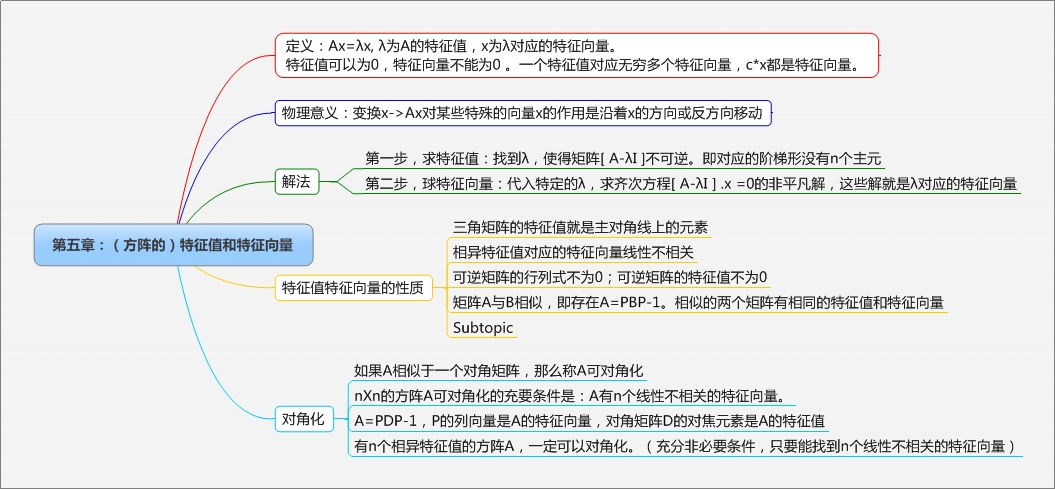
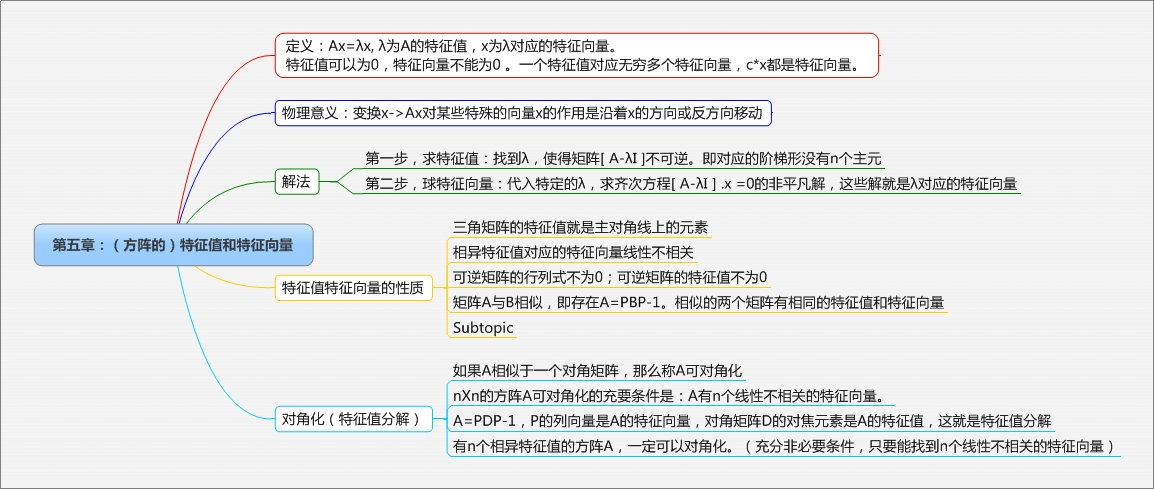
x

diff --git a/线性代数读书笔记.md b/线性代数读书笔记.md
@@ -6,4 +6,98 @@
 
 ![第5章](img/algebra/chapter5.jpg)
 
+nXn方阵的特征值，如果允许为复数，一定存在有n个。但实的特征值不是一定存在的。
+
 ![第6章](img/algebra/chapter6.jpg)
+
+下面这段代码可以求Ax=b的最优解：
+
+```
+f[A_, b_] := Module[{nullspacebase, aa, colnumofa},
+   nullspacebase = NullSpace[Transpose[A]];
+
+   aa = Join[Transpose[A], nullspacebase];
+   aa = Transpose[aa];
+
+   colnumofa = Last[Dimensions[A]];
+   LinearSolve[aa, b][[1 ;; colnumofa]]
+   ];
+```
+
+![第7章](img/algebra/chapter7.jpg)
+
+
+
+这本书读到第6章的时候我还觉得他写得挺好，但是到第七章的时候，让人大失所望。奇异值分解、特征值分解应该是线性代数最重要的事情，作者讲得语焉不详。第七章的标题居然是：对称矩阵与二次型！
+
+他妈的，我帮着改了个更好的标题。
+
+### 为什么要将矩阵做特征值分解和奇异值分解呢？
+
+类似对一个自然数做因式分解，可以更好的理解一个矩阵对应的线性变换有什么性质。
+
+对角矩阵作用于一个向量x，相当于将x沿着坐标轴方向进行了拉伸；
+
+对称矩阵作用于一个向量x，相当于将x沿着某些方向进行了拉伸；
+
+一般的矩阵作用于一个向量x，对x既有拉伸，也有旋转。
+
+这里我还是没有搞懂。。。
+
+### 奇异值分解的实际用途：
+
+特征值分解的局限性：
+
+1. 只能对方阵进行处理
+2. 有的方阵有不一定能进行三角化，不能进行特征值分解
+
+相比之下，奇异值分解是一定可以进行的。
+
+下面的代码演示了奇异值分解用于图像有损压缩：
+
+```
+ClearAll["Global`*"];
+
+svdCompress[A_, qnum_] := 
+  Module[{u, w, v, result, m, n, i, j, u1, v1, q},
+   {u, w, v} = SingularValueDecomposition[A];
+   m = Length[A];
+   n = Length[A[[1]]];
+   q = qnum;
+   If[q > Min[m, n], q = Min[m, n], null];
+   result = Table[ Array[0*#1 &, n], {i, 1, m}];
+   Print["datasize:", q * (m + n)];
+   Print["singular values:", Table[w[[i, i]], {i, 1, q}]];
+   Do[
+      u1 = Table[{u[[j, i]]}, {j, 1, m}];
+      v1 = {v[[;; , i]]};
+      result = result + (u1.v1)*w[[i, i]];
+      ,
+      {i, 1, q}
+   ];
+
+   result
+   ];
+
+img = Import["e:\\reba.jpg"];
+img = ColorConvert[img, "Grayscale"];
+data = ImageData[img];
+Print["original datasize:", Length[data]*Length[data[[1]]]];
+compresseddata = svdCompress[data, 20];
+Image[compresseddata]
+compresseddata = svdCompress[data, 50];
+Image[compresseddata]
+compresseddata = svdCompress[data, 1000];
+Image[compresseddata]
+```
+
+执行输出如下：
+
+![奇异值分解用于压缩](img/algebra/singular1.jpg)
+
+前50个奇异值如下：
+
+```
+singular values:{321.442,54.0135,46.6778,33.4076,31.1938,26.5388,25.1744,23.123,20.0867,19.9147,18.4442,17.3813,15.2275,14.171,13.8541,13.2777,12.5815,12.1304,11.7502,11.6244,10.6624,10.4412,10.2138,9.96321,9.83099,9.34661,9.12183,8.89255,8.6118,8.35397,8.31457,8.01118,7.96017,7.74558,7.51425,7.33778,7.2599,6.96847,6.87614,6.72356,6.63304,6.43412,6.2804,6.17545,5.98587,5.92536,5.84698,5.64526,5.56161,5.45043}
+```
+
